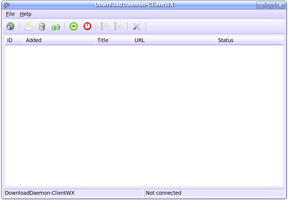
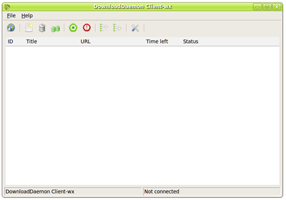
screenshot changes

Changed region(s): [[0.0, 0.0, 1.0, 1.0]]

diff --git a/trunk/src/ddclient-wx/ddclient-wx_main.cpp b/trunk/src/ddclient-wx/ddclient-wx_main.cpp
@@ -575,7 +575,7 @@ string myframe::build_status(string &status_text, string &time_left, vector<stri
 
 			if(splitted_line[6] == "0" || splitted_line[6] == "1"){ // download size unknown
 				stream_buffer << "0.00% - ";
-				time_left = "?";
+				time_left = "";
 
 				if(splitted_line[5] == "0" || splitted_line[5] == "1") // nothing downloaded yet
 					stream_buffer << "0.00 MB/ 0.00 MB";
@@ -591,7 +591,7 @@ string myframe::build_status(string &status_text, string &time_left, vector<stri
 						time_left = time_buffer.str();
 						cut_time(time_left);
 					}else
-						time_left = "?";
+						time_left = "";
 
 				}else{ // download size known and something downloaded
 					stream_buffer << setprecision(1) << fixed << (float)atol(splitted_line[5].c_str()) / (float)atol(splitted_line[6].c_str()) * 100 << "% - ";
@@ -603,7 +603,7 @@ string myframe::build_status(string &status_text, string &time_left, vector<stri
 						time_left = time_buffer.str();
 						cut_time(time_left);
 					}else
-						time_left = "?";
+						time_left = "";
 				}
 			}
 			status_text = stream_buffer.str();
